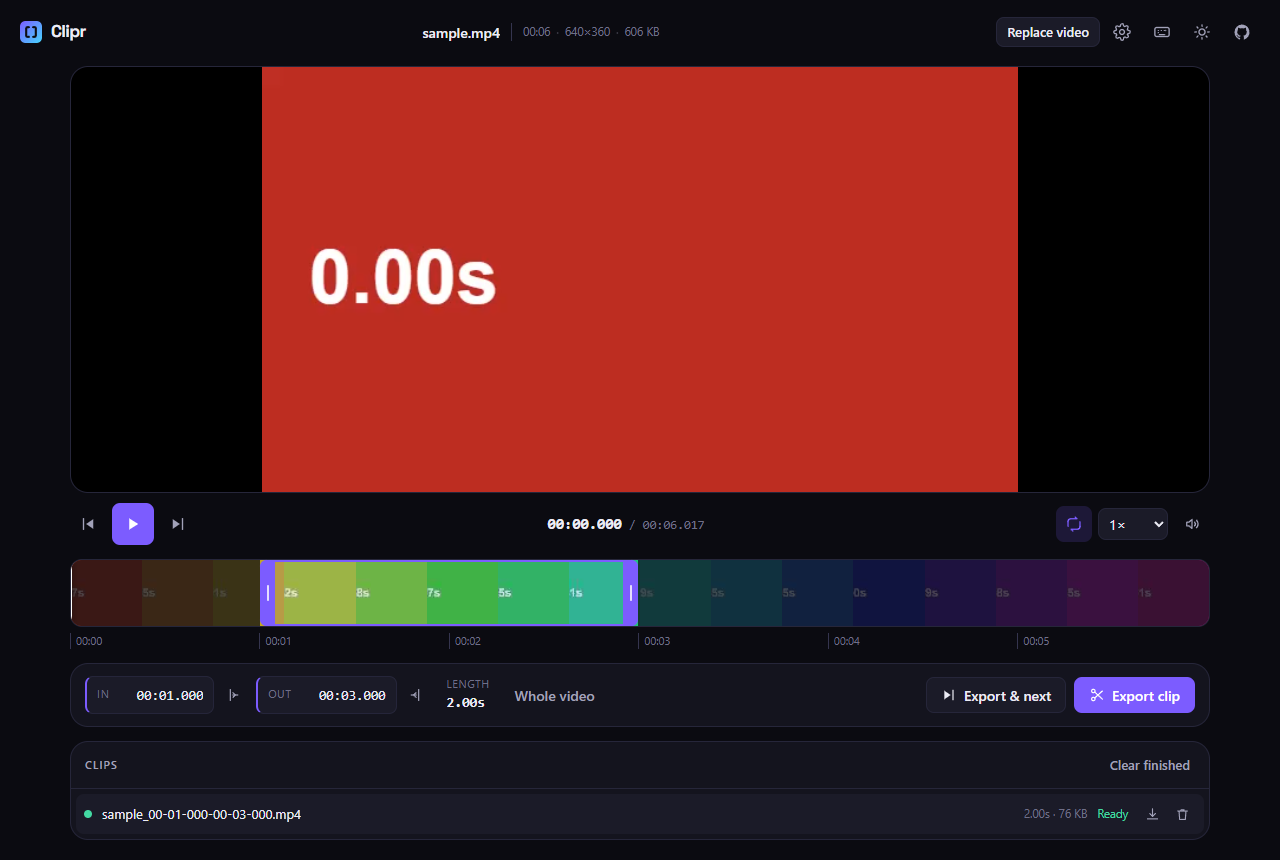
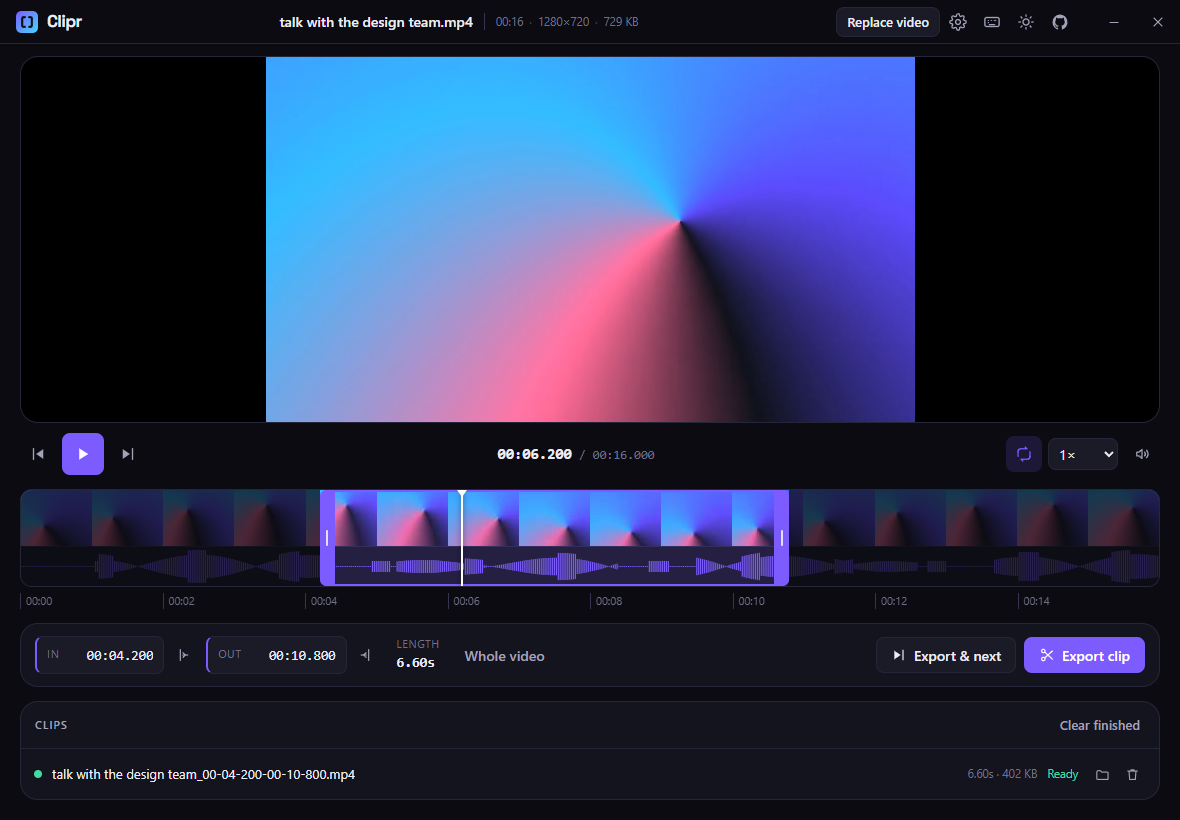
Update
Add an audio waveform under the filmstrip

diff --git a/src/App.tsx b/src/App.tsx
@@ -2,7 +2,7 @@
 
 import { useEffect, useRef, useState } from 'react'
 import type { ExportSettings, Preferences, Selection } from './types'
-import { FILMSTRIP_FRAMES, REPO_URL } from './config'
+import { APP_NAME, FILMSTRIP_FRAMES, REPO_URL, WAVEFORM_BUCKETS } from './config'
 import { DropZone } from './components/DropZone'
 import { Header } from './components/Header'
 import { Player } from './components/Player'
@@ -21,6 +21,7 @@ import { isDesktop } from './lib/desktop'
 import { ensureEngine, previewCommand } from './lib/ffmpeg'
 import { VIDEO_ACCEPT } from './lib/file'
 import { captureFilmstrip } from './lib/filmstrip'
+import { extractPeaks } from './lib/waveform'
 import {
   DEFAULT_PREFERENCES,
   DEFAULT_SETTINGS,
@@ -39,6 +40,7 @@ export default function App() {
 
   const [selection, setSelection] = useState<Selection>({ start: 0, end: 0 })
   const [frames, setFrames] = useState<(string | undefined)[]>([])
+  const [peaks, setPeaks] = useState<Float32Array | null>(null)
   const [dialog, setDialog] = useState<'none' | 'shortcuts' | 'settings'>('none')
   const fileInput = useRef<HTMLInputElement>(null)
 
@@ -54,11 +56,21 @@ export default function App() {
   }, [preferences.value.theme])
 
   useEffect(() => {
+    document.title = source ? `${source.file.name} · ${APP_NAME}` : APP_NAME
+  }, [source])
+
+  useEffect(() => {
     if (!source) return
     setSelection({ start: 0, end: source.duration })
     setFrames(new Array(FILMSTRIP_FRAMES).fill(undefined))
+    setPeaks(null)
 
     const controller = new AbortController()
+    void extractPeaks({ file: source.file, buckets: WAVEFORM_BUCKETS, signal: controller.signal })
+      .then((result) => {
+        if (!controller.signal.aborted) setPeaks(result)
+      })
+      .catch(() => undefined)
     void captureFilmstrip({
       url: source.url,
       duration: source.duration,
@@ -213,6 +225,7 @@ export default function App() {
             selection={selection}
             time={playback.time}
             frames={frames}
+            peaks={peaks}
             onChange={setSelection}
             onSeek={playback.seek}
           />

diff --git a/src/components/Waveform.tsx b/src/components/Waveform.tsx
@@ -1,0 +1,56 @@
+// Draws the audio peaks as mirrored bars, redrawing on resize and theme changes.
+
+import { useEffect, useRef } from 'react'
+
+interface WaveformProps {
+  peaks: Float32Array | null
+}
+
+export function Waveform({ peaks }: WaveformProps) {
+  const ref = useRef<HTMLCanvasElement>(null)
+
+  useEffect(() => {
+    const canvas = ref.current
+    if (!canvas) return
+
+    const draw = () => {
+      const scale = window.devicePixelRatio || 1
+      const { width, height } = canvas.getBoundingClientRect()
+      if (!width || !height) return
+      canvas.width = Math.round(width * scale)
+      canvas.height = Math.round(height * scale)
+
+      const context = canvas.getContext('2d')
+      if (!context) return
+      context.scale(scale, scale)
+      context.fillStyle = getComputedStyle(canvas).color
+      const middle = height / 2
+
+      if (!peaks) {
+        context.globalAlpha = 0.35
+        context.fillRect(0, middle - 0.5, width, 1)
+        return
+      }
+
+      const slot = width / peaks.length
+      const bar = Math.max(1, slot * 0.6)
+      const reach = (height - 6) / 2
+      for (let index = 0; index < peaks.length; index += 1) {
+        const half = Math.max(0.5, peaks[index] * reach)
+        context.fillRect(index * slot, middle - half, bar, half * 2)
+      }
+    }
+
+    draw()
+    const sizes = new ResizeObserver(draw)
+    sizes.observe(canvas)
+    const theme = new MutationObserver(draw)
+    theme.observe(document.documentElement, { attributes: true, attributeFilter: ['data-theme'] })
+    return () => {
+      sizes.disconnect()
+      theme.disconnect()
+    }
+  }, [peaks])
+
+  return <canvas ref={ref} className="waveform" aria-hidden="true" />
+}

diff --git a/src/lib/waveform.ts b/src/lib/waveform.ts
@@ -1,0 +1,46 @@
+// Boils a video's audio track down to a few hundred peaks for the timeline.
+
+const SAMPLE_RATE = 8000
+const MAX_BYTES = 500 * 1024 * 1024
+
+interface WaveformOptions {
+  file: File
+  buckets: number
+  signal: AbortSignal
+}
+
+// Resolves to null when the file is silent, too large to decode in memory, or aborted.
+export async function extractPeaks({ file, buckets, signal }: WaveformOptions): Promise<Float32Array | null> {
+  if (file.size > MAX_BYTES) return null
+
+  const bytes = await file.arrayBuffer()
+  if (signal.aborted) return null
+
+  let audio: AudioBuffer
+  try {
+    audio = await new OfflineAudioContext(1, 1, SAMPLE_RATE).decodeAudioData(bytes)
+  } catch {
+    return null
+  }
+  if (signal.aborted || audio.length === 0) return null
+
+  const samples = audio.getChannelData(0)
+  const peaks = new Float32Array(buckets)
+  const step = samples.length / buckets
+  let loudest = 0
+
+  for (let bucket = 0; bucket < buckets; bucket += 1) {
+    const end = Math.min(samples.length, Math.floor((bucket + 1) * step))
+    let peak = 0
+    for (let index = Math.floor(bucket * step); index < end; index += 1) {
+      const value = Math.abs(samples[index])
+      if (value > peak) peak = value
+    }
+    peaks[bucket] = peak
+    if (peak > loudest) loudest = peak
+  }
+
+  if (loudest === 0) return null
+  for (let bucket = 0; bucket < buckets; bucket += 1) peaks[bucket] /= loudest
+  return peaks
+}

diff --git a/src/components/Timeline.tsx b/src/components/Timeline.tsx
@@ -10,6 +10,7 @@ import {
 import type { Selection } from '../types'
 import { clamp, formatTimecode } from '../lib/time'
 import { MIN_CLIP_DURATION } from '../lib/settings'
+import { Waveform } from './Waveform'
 
 type DragMode = 'in' | 'out' | 'move' | 'scrub'
 
@@ -20,11 +21,20 @@ interface TimelineProps {
   selection: Selection
   time: number
   frames: (string | undefined)[]
+  peaks: Float32Array | null
   onChange: (selection: Selection) => void
   onSeek: (time: number) => void
 }
 
-export function Timeline({ duration, selection, time, frames, onChange, onSeek }: TimelineProps) {
+export function Timeline({
+  duration,
+  selection,
+  time,
+  frames,
+  peaks,
+  onChange,
+  onSeek,
+}: TimelineProps) {
   const trackRef = useRef<HTMLDivElement>(null)
   const dragRef = useRef<{ mode: DragMode; grabbedAt: number } | null>(null)
   const [hover, setHover] = useState<number | null>(null)
@@ -132,6 +142,10 @@ export function Timeline({ duration, selection, time, frames, onChange, onSeek }
               style={frame ? { backgroundImage: `url(${frame})` } : undefined}
             />
           ))}
+        </div>
+
+        <div className="timeline__audio">
+          <Waveform peaks={peaks} />
         </div>
 
         <div className="timeline__shade" style={{ left: 0, width: percent(selection.start) }} />

diff --git a/src/styles/app.css b/src/styles/app.css
@@ -308,7 +308,7 @@
 
 .timeline__track {
   position: relative;
-  height: 68px;
+  height: 98px;
   border: 1px solid var(--line);
   border-radius: var(--radius);
   background: var(--surface-2);
@@ -329,8 +329,28 @@
 
 .timeline__frames {
   position: absolute;
-  inset: 0;
+  top: 0;
+  left: 0;
+  right: 0;
+  height: 58px;
   display: flex;
+}
+
+.timeline__audio {
+  position: absolute;
+  left: 0;
+  right: 0;
+  bottom: 0;
+  height: 40px;
+  border-top: 1px solid var(--line);
+  background: var(--surface);
+}
+
+.waveform {
+  display: block;
+  width: 100%;
+  height: 100%;
+  color: var(--accent);
 }
 
 .timeline__frame {

diff --git a/src/config.ts b/src/config.ts
@@ -3,3 +3,4 @@
 export const APP_NAME = 'Clipr'
 export const REPO_URL = 'https://github.com/Derthert/Clipr-App'
 export const FILMSTRIP_FRAMES = 16
+export const WAVEFORM_BUCKETS = 600
